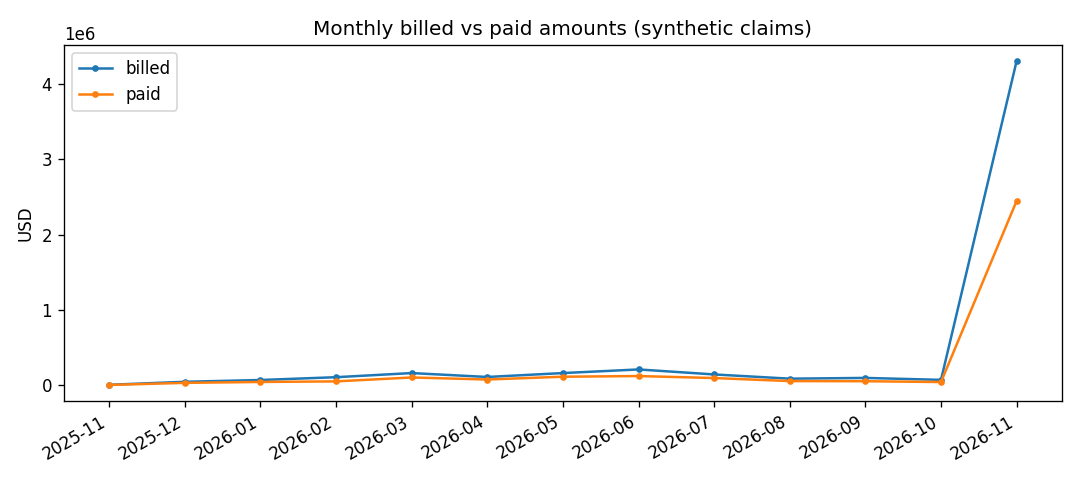
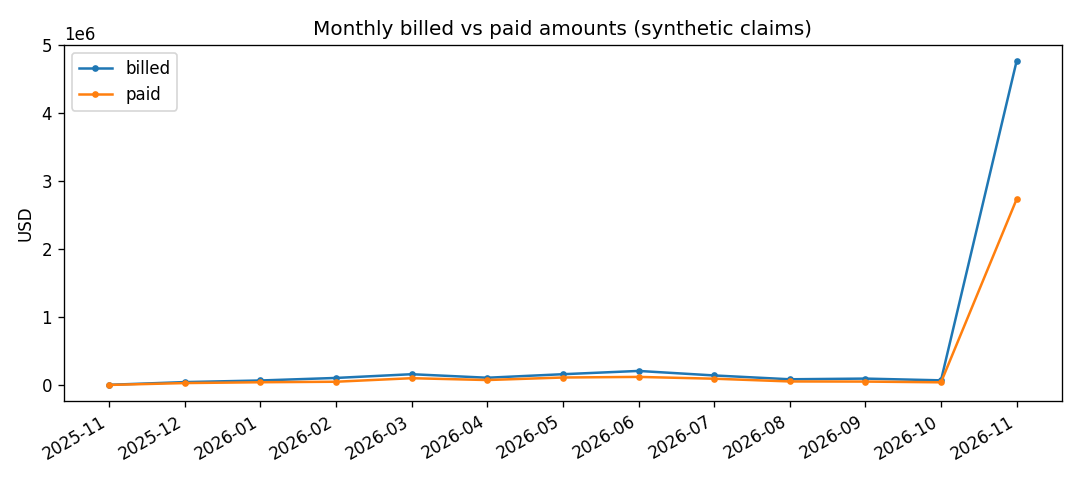
Add plan x month denial-rate outlier screen (binomial z-score)

diff --git a/tests/test_pipeline.py b/tests/test_pipeline.py
@@ -261,3 +261,39 @@ def test_cost_sharing_section_renders_with_illustrative_label():
     md = report.render_markdown([], [], [], 0, cost_sharing=[
         {"plan": "PPO", "claims": 2, "network_discount": 0.2, "member_cost_share": 0.375}])
     assert "| PPO | 2 | 20.0% | 37.5% |" in md and "Illustrative" in md
+
+
+def _cell(plan, month, n, denied, start=0):
+    return [make_valid(f"CLM-{plan}-{month}-{start + i}", plan_type=plan, service_date=f"{month}-10",
+                       status="denied" if i < denied else "paid",
+                       denial_reason="duplicate claim" if i < denied else "",
+                       paid_amount=0 if i < denied else 60) for i in range(n)]
+
+
+def test_denial_rate_outliers_flags_high_cell_and_skips_small(tmp_path):
+    pipe = Pipeline(tmp_path / "c.csv")
+    claims = (_cell("PPO", "2026-09", 100, 5) + _cell("HMO", "2026-09", 100, 5)
+              + _cell("PPO", "2026-10", 100, 5) + _cell("HMO", "2026-10", 100, 40)
+              + _cell("HDHP", "2026-10", 10, 10))          # tiny cell: skipped
+    pipe.ingest(claims)
+    out = pipe.denial_rate_outliers()
+    assert (out[0]["plan"], out[0]["month"]) == ("HMO", "2026-10")  # largest |z| first
+    assert out[0]["z"] > 2 and out[0]["denial_rate"] == 0.4
+    assert all(o["plan"] != "HDHP" for o in out)                    # 10-claim cell skipped
+    assert any(o["z"] < 0 for o in out)                             # unusually low cells flagged too
+
+
+def test_denial_rate_outliers_edge_cases(tmp_path):
+    assert Pipeline(tmp_path / "e.csv").denial_rate_outliers() == []      # empty store
+    pipe = Pipeline(tmp_path / "u.csv")
+    pipe.ingest(_cell("PPO", "2026-10", 50, 0))                            # no denials at all
+    assert pipe.denial_rate_outliers() == []
+
+
+def test_outlier_section_renders_both_states():
+    from healthdata import report
+    md = report.render_markdown([], [], [], 0, outliers=[
+        {"plan": "HMO", "month": "2026-10", "claims": 100, "denial_rate": 0.4,
+         "overall_rate": 0.1, "z": 5.2}])
+    assert "| HMO | 2026-10 | 100 | 40.0% | 10.0% | +5.20 |" in md and "not a finding" in md
+    assert "No plan/month cells" in report.render_markdown([], [], [], 0, outliers=[])

diff --git a/src/healthdata/report.py b/src/healthdata/report.py
@@ -19,7 +19,8 @@ def render_markdown(monthly: list[dict], denial_reasons: list[tuple[str, int]],
                     reasons_by_plan: dict | None = None,
                     duplicates: list[dict] | None = None,
                     trend: list[dict] | None = None,
-                    cost_sharing: list[dict] | None = None) -> str:
+                    cost_sharing: list[dict] | None = None,
+                    outliers: list[dict] | None = None) -> str:
     generated_at = generated_at or dt.datetime.now(dt.timezone.utc)
     total_paid = sum(m["paid"] for m in monthly)
     total_billed = sum(m["billed"] for m in monthly)
@@ -66,6 +67,18 @@ def render_markdown(monthly: list[dict], denial_reasons: list[tuple[str, int]],
         for r in cost_sharing:
             lines.append(f"| {r['plan']} | {r['claims']} | {r['network_discount']:.1%} | "
                          f"{r['member_cost_share']:.1%} |")
+    if outliers is not None:
+        lines += ["", "## Denial-rate outliers (plan x month)", "",
+                  "Cells whose denial rate is at least 2 standard errors from the overall rate "
+                  "(cells under 20 claims skipped). A statistical screen on synthetic data, not a finding."]
+        if outliers:
+            lines += ["", "| Plan | Month | Claims | Denial rate | Overall | z |",
+                      "| --- | --- | ---: | ---: | ---: | ---: |"]
+            for o in outliers:
+                lines.append(f"| {o['plan']} | {o['month']} | {o['claims']} | {o['denial_rate']:.1%} | "
+                             f"{o['overall_rate']:.1%} | {o['z']:+.2f} |")
+        else:
+            lines += ["", "No plan/month cells outside the screen."]
     if procedures:
         lines += ["", "## Top procedures by paid amount", "",
                   "| Code | Claims | Avg billed | Paid | Denial rate |",

diff --git a/src/healthdata/pipeline.py b/src/healthdata/pipeline.py
@@ -153,6 +153,36 @@ class Pipeline:
                for name, p in plans.items()]
         return sorted(out, key=lambda r: (-r["member_cost_share"], r["plan"]))
 
+    def denial_rate_outliers(self, z: float = 2.0, min_claims: int = 20) -> list[dict]:
+        """Plan/month cells whose denial rate differs from the overall rate by
+        at least `z` binomial standard errors. A statistical screen for where
+        to look first, not proof of anything; synthetic data, illustrative.
+        Cells with fewer than `min_claims` claims are skipped. Sorted by |z|."""
+        import math
+
+        rows = list(self.load_store().values())
+        if not rows:
+            return []
+        overall = sum(r["status"] == "denied" for r in rows) / len(rows)
+        if overall in (0.0, 1.0):
+            return []
+        cells: dict[tuple[str, str], list[int]] = {}
+        for r in rows:
+            c = cells.setdefault((r["plan_type"] or "Unknown", (r["service_date"] or "")[:7]), [0, 0])
+            c[0] += 1
+            c[1] += r["status"] == "denied"
+        out = []
+        for (plan, month), (n, d) in cells.items():
+            if n < min_claims or not month:
+                continue
+            se = math.sqrt(overall * (1 - overall) / n)
+            score = (d / n - overall) / se
+            if abs(score) >= z:
+                out.append({"plan": plan, "month": month, "claims": n,
+                            "denial_rate": round(d / n, 4), "overall_rate": round(overall, 4),
+                            "z": round(score, 2)})
+        return sorted(out, key=lambda r: (-abs(r["z"]), r["plan"], r["month"]))
+
     def procedure_summary(self, top: int = 5) -> list[dict]:
         """Top procedure codes by total paid, with claim count, average billed
         and denial rate. Illustrative synthetic metrics."""

diff --git a/scripts/daily_update.py b/scripts/daily_update.py
@@ -53,6 +53,7 @@ def main() -> int:
         report.render_markdown(monthly, reasons, mix, stats["total"],
                                plan_perf=pipe.plan_performance(),
                                cost_sharing=pipe.plan_cost_sharing(),
+                               outliers=pipe.denial_rate_outliers(),
                                procedures=pipe.procedure_summary(),
                                utilization=pipe.high_utilizers(),
                                age_bands=pipe.age_band_costs(),

diff --git a/reports/claims_report.md b/reports/claims_report.md
@@ -1,8 +1,8 @@
 # Healthcare Data - claims pipeline report
 
-Generated 2026-11-18 19:10 UTC. All data is synthetic - no real member, patient or plan information.
+Generated 2026-11-19 00:11 UTC. All data is synthetic - no real member, patient or plan information.
 
-**1820 claims** in store. Billed $5,577,221, paid $3,240,466, denied 196 overall.
+**1940 claims** in store. Billed $6,034,595, paid $3,524,675, denied 209 overall.
 
 ## Monthly financials
 
@@ -20,31 +20,31 @@ Generated 2026-11-18 19:10 UTC. All data is synthetic - no real member, patient 
 | 2026-08 | 50 | $87,251 | $70,911 | $55,220 | 18.0% |
 | 2026-09 | 28 | $97,162 | $80,729 | $53,482 | 7.1% |
 | 2026-10 | 47 | $71,505 | $55,063 | $42,442 | 8.5% |
-| 2026-11 | 1341 | $4,307,258 | $3,320,528 | $2,449,016 | 10.9% |
+| 2026-11 | 1461 | $4,764,633 | $3,681,037 | $2,733,226 | 10.9% |
 
 ## Denial reasons
 
-- duplicate claim (45)
-- not medically necessary (43)
-- timely filing exceeded (40)
-- out-of-network provider (35)
-- missing prior authorization (33)
+- duplicate claim (49)
+- not medically necessary (47)
+- timely filing exceeded (42)
+- out-of-network provider (38)
+- missing prior authorization (34)
 
 ## Plan mix
 
-- HMO: 497
-- PPO: 463
-- EPO: 447
-- HDHP: 413
+- HMO: 521
+- PPO: 496
+- EPO: 474
+- HDHP: 449
 
 ## Plan performance
 
 | Plan | Claims | Denial rate | Paid / billed |
 | --- | ---: | ---: | ---: |
-| HMO | 497 | 9.0% | 61.1% |
-| PPO | 463 | 12.1% | 55.7% |
-| EPO | 447 | 12.5% | 54.8% |
-| HDHP | 413 | 9.4% | 60.8% |
+| HMO | 521 | 8.6% | 61.3% |
+| PPO | 496 | 12.1% | 55.6% |
+| EPO | 474 | 12.9% | 55.4% |
+| HDHP | 449 | 9.8% | 61.5% |
 
 ## Cost sharing by plan (non-denied claims)
 
@@ -52,41 +52,49 @@ Network discount = 1 - allowed/billed. Member cost share = (allowed - paid)/allo
 
 | Plan | Claims | Network discount | Member cost share |
 | --- | ---: | ---: | ---: |
-| HMO | 452 | 21.7% | 15.6% |
-| HDHP | 374 | 22.8% | 15.3% |
-| PPO | 407 | 24.0% | 14.7% |
-| EPO | 391 | 23.4% | 14.3% |
+| HMO | 476 | 21.9% | 15.5% |
+| PPO | 436 | 23.6% | 14.9% |
+| HDHP | 405 | 22.7% | 14.8% |
+| EPO | 413 | 23.3% | 14.6% |
+
+## Denial-rate outliers (plan x month)
+
+Cells whose denial rate is at least 2 standard errors from the overall rate (cells under 20 claims skipped). A statistical screen on synthetic data, not a finding.
+
+| Plan | Month | Claims | Denial rate | Overall | z |
+| --- | --- | ---: | ---: | ---: | ---: |
+| HMO | 2026-11 | 388 | 7.5% | 10.8% | -2.12 |
 
 ## Top procedures by paid amount
 
 | Code | Claims | Avg billed | Paid | Denial rate |
 | --- | ---: | ---: | ---: | ---: |
-| 27447 | 190 | $25,048 | $2,771,478 | 11.1% |
-| 43239 | 193 | $2,050 | $224,473 | 12.4% |
-| 99285 | 183 | $1,061 | $107,593 | 14.2% |
-| 70450 | 173 | $665 | $69,959 | 6.9% |
-| 99214 | 177 | $167 | $17,210 | 10.7% |
+| 27447 | 206 | $25,013 | $3,020,841 | 10.7% |
+| 43239 | 207 | $2,038 | $237,945 | 13.0% |
+| 99285 | 202 | $1,076 | $120,599 | 13.9% |
+| 70450 | 187 | $660 | $74,876 | 7.0% |
+| 99214 | 189 | $167 | $18,250 | 11.6% |
 
 ## Member utilization
 
-141 of 1178 synthetic members have 3+ claims and account for 23.8% of paid dollars.
+168 of 1220 synthetic members have 3+ claims and account for 28.8% of paid dollars.
 
 | Member | Claims | Paid |
 | --- | ---: | ---: |
+| MBR-0471 | 5 | $28,036 |
+| MBR-0939 | 5 | $27,251 |
 | MBR-1424 | 5 | $14,713 |
 | MBR-0746 | 5 | $11,386 |
 | MBR-1062 | 5 | $9,924 |
-| MBR-1542 | 4 | $27,681 |
-| MBR-0939 | 4 | $27,209 |
 
 ## Top denial reason by plan
 
 | Plan | Denials | Top reason | Count |
 | --- | ---: | --- | ---: |
-| EPO | 56 | duplicate claim | 13 |
-| HDHP | 39 | duplicate claim | 10 |
+| EPO | 61 | duplicate claim | 15 |
+| HDHP | 44 | out-of-network provider | 12 |
 | HMO | 45 | not medically necessary | 12 |
-| PPO | 56 | timely filing exceeded | 18 |
+| PPO | 60 | timely filing exceeded | 19 |
 
 ## Month-over-month trend (last 6 complete months)
 
@@ -101,15 +109,15 @@ Network discount = 1 - allowed/billed. Member cost share = (allowed - paid)/allo
 
 ## Potential duplicate services
 
-18 groups share a member, procedure and service date (review queue, not a quality failure).
+22 groups share a member, procedure and service date (review queue, not a quality failure).
 
 | Member | Procedure | Date | Claims | Paid |
 | --- | --- | --- | ---: | ---: |
+| MBR-1973 | 27447 | 2026-11-18 | 3 | $55,302 |
 | MBR-0076 | 27447 | 2026-11-17 | 2 | $35,616 |
 | MBR-1695 | 27447 | 2026-11-18 | 2 | $25,258 |
 | MBR-1025 | 27447 | 2026-11-17 | 2 | $23,763 |
 | MBR-1697 | 43239 | 2026-11-17 | 2 | $2,808 |
-| MBR-1896 | 43239 | 2026-11-17 | 2 | $2,471 |
 
 ## Cost by age band
 
